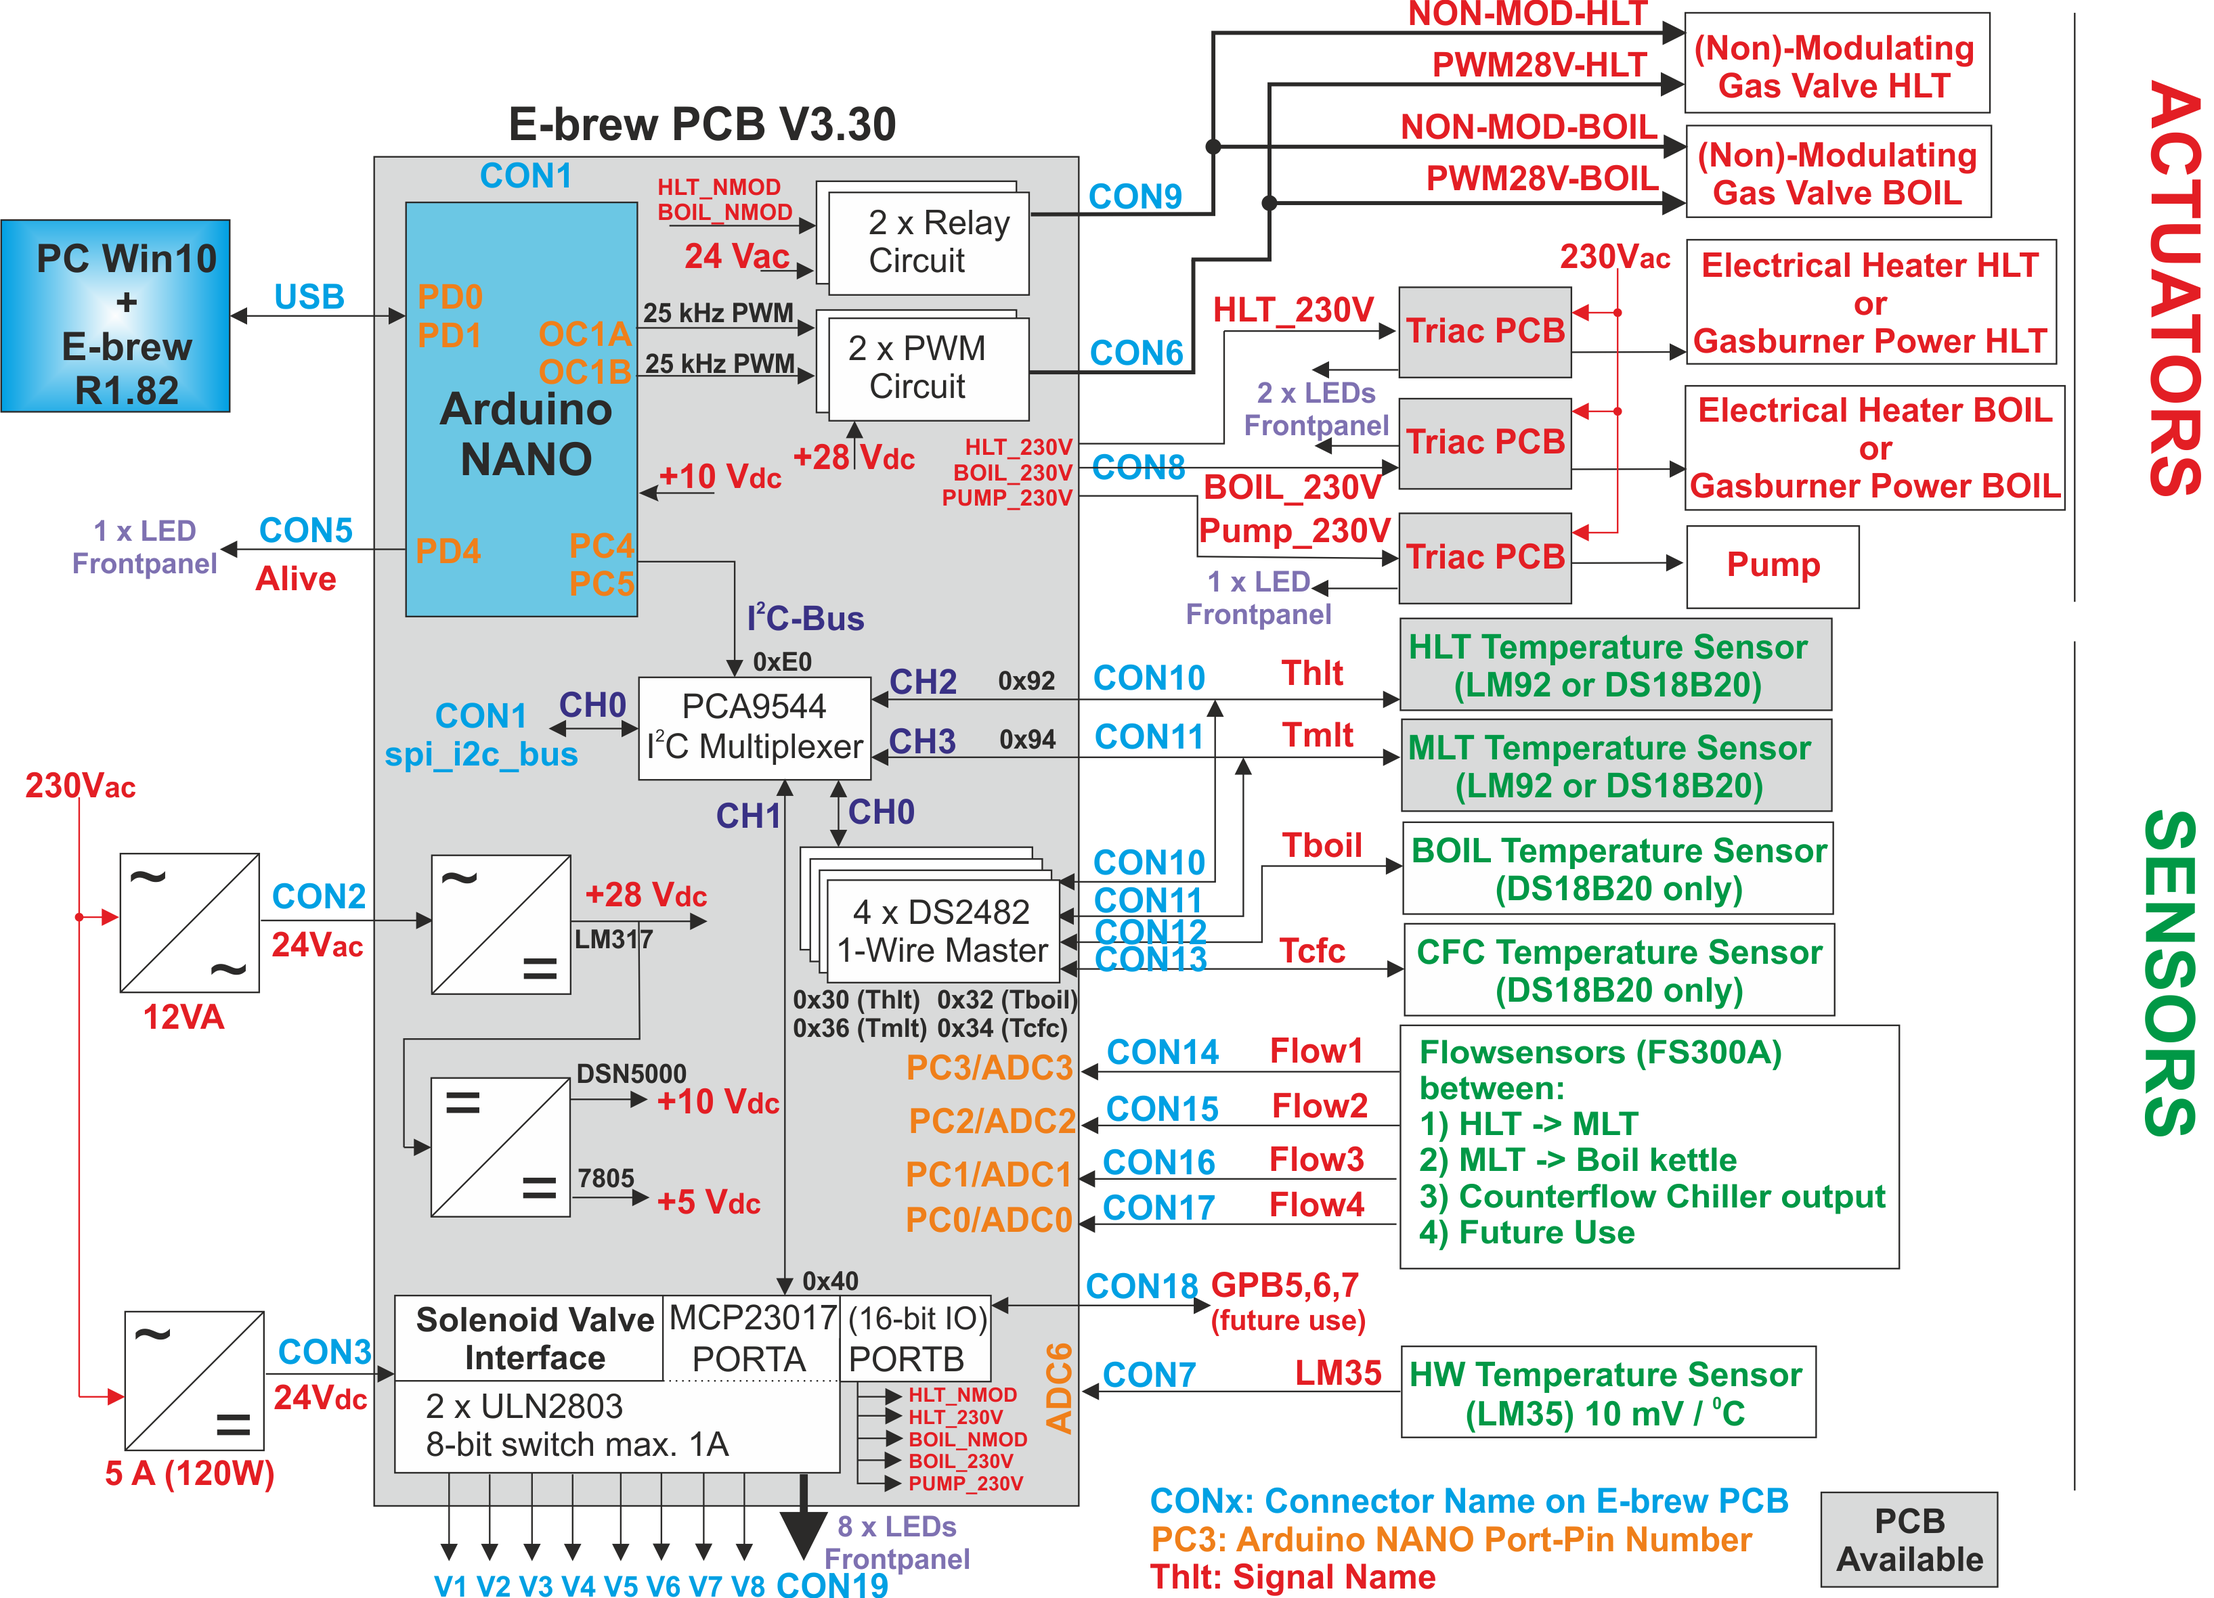
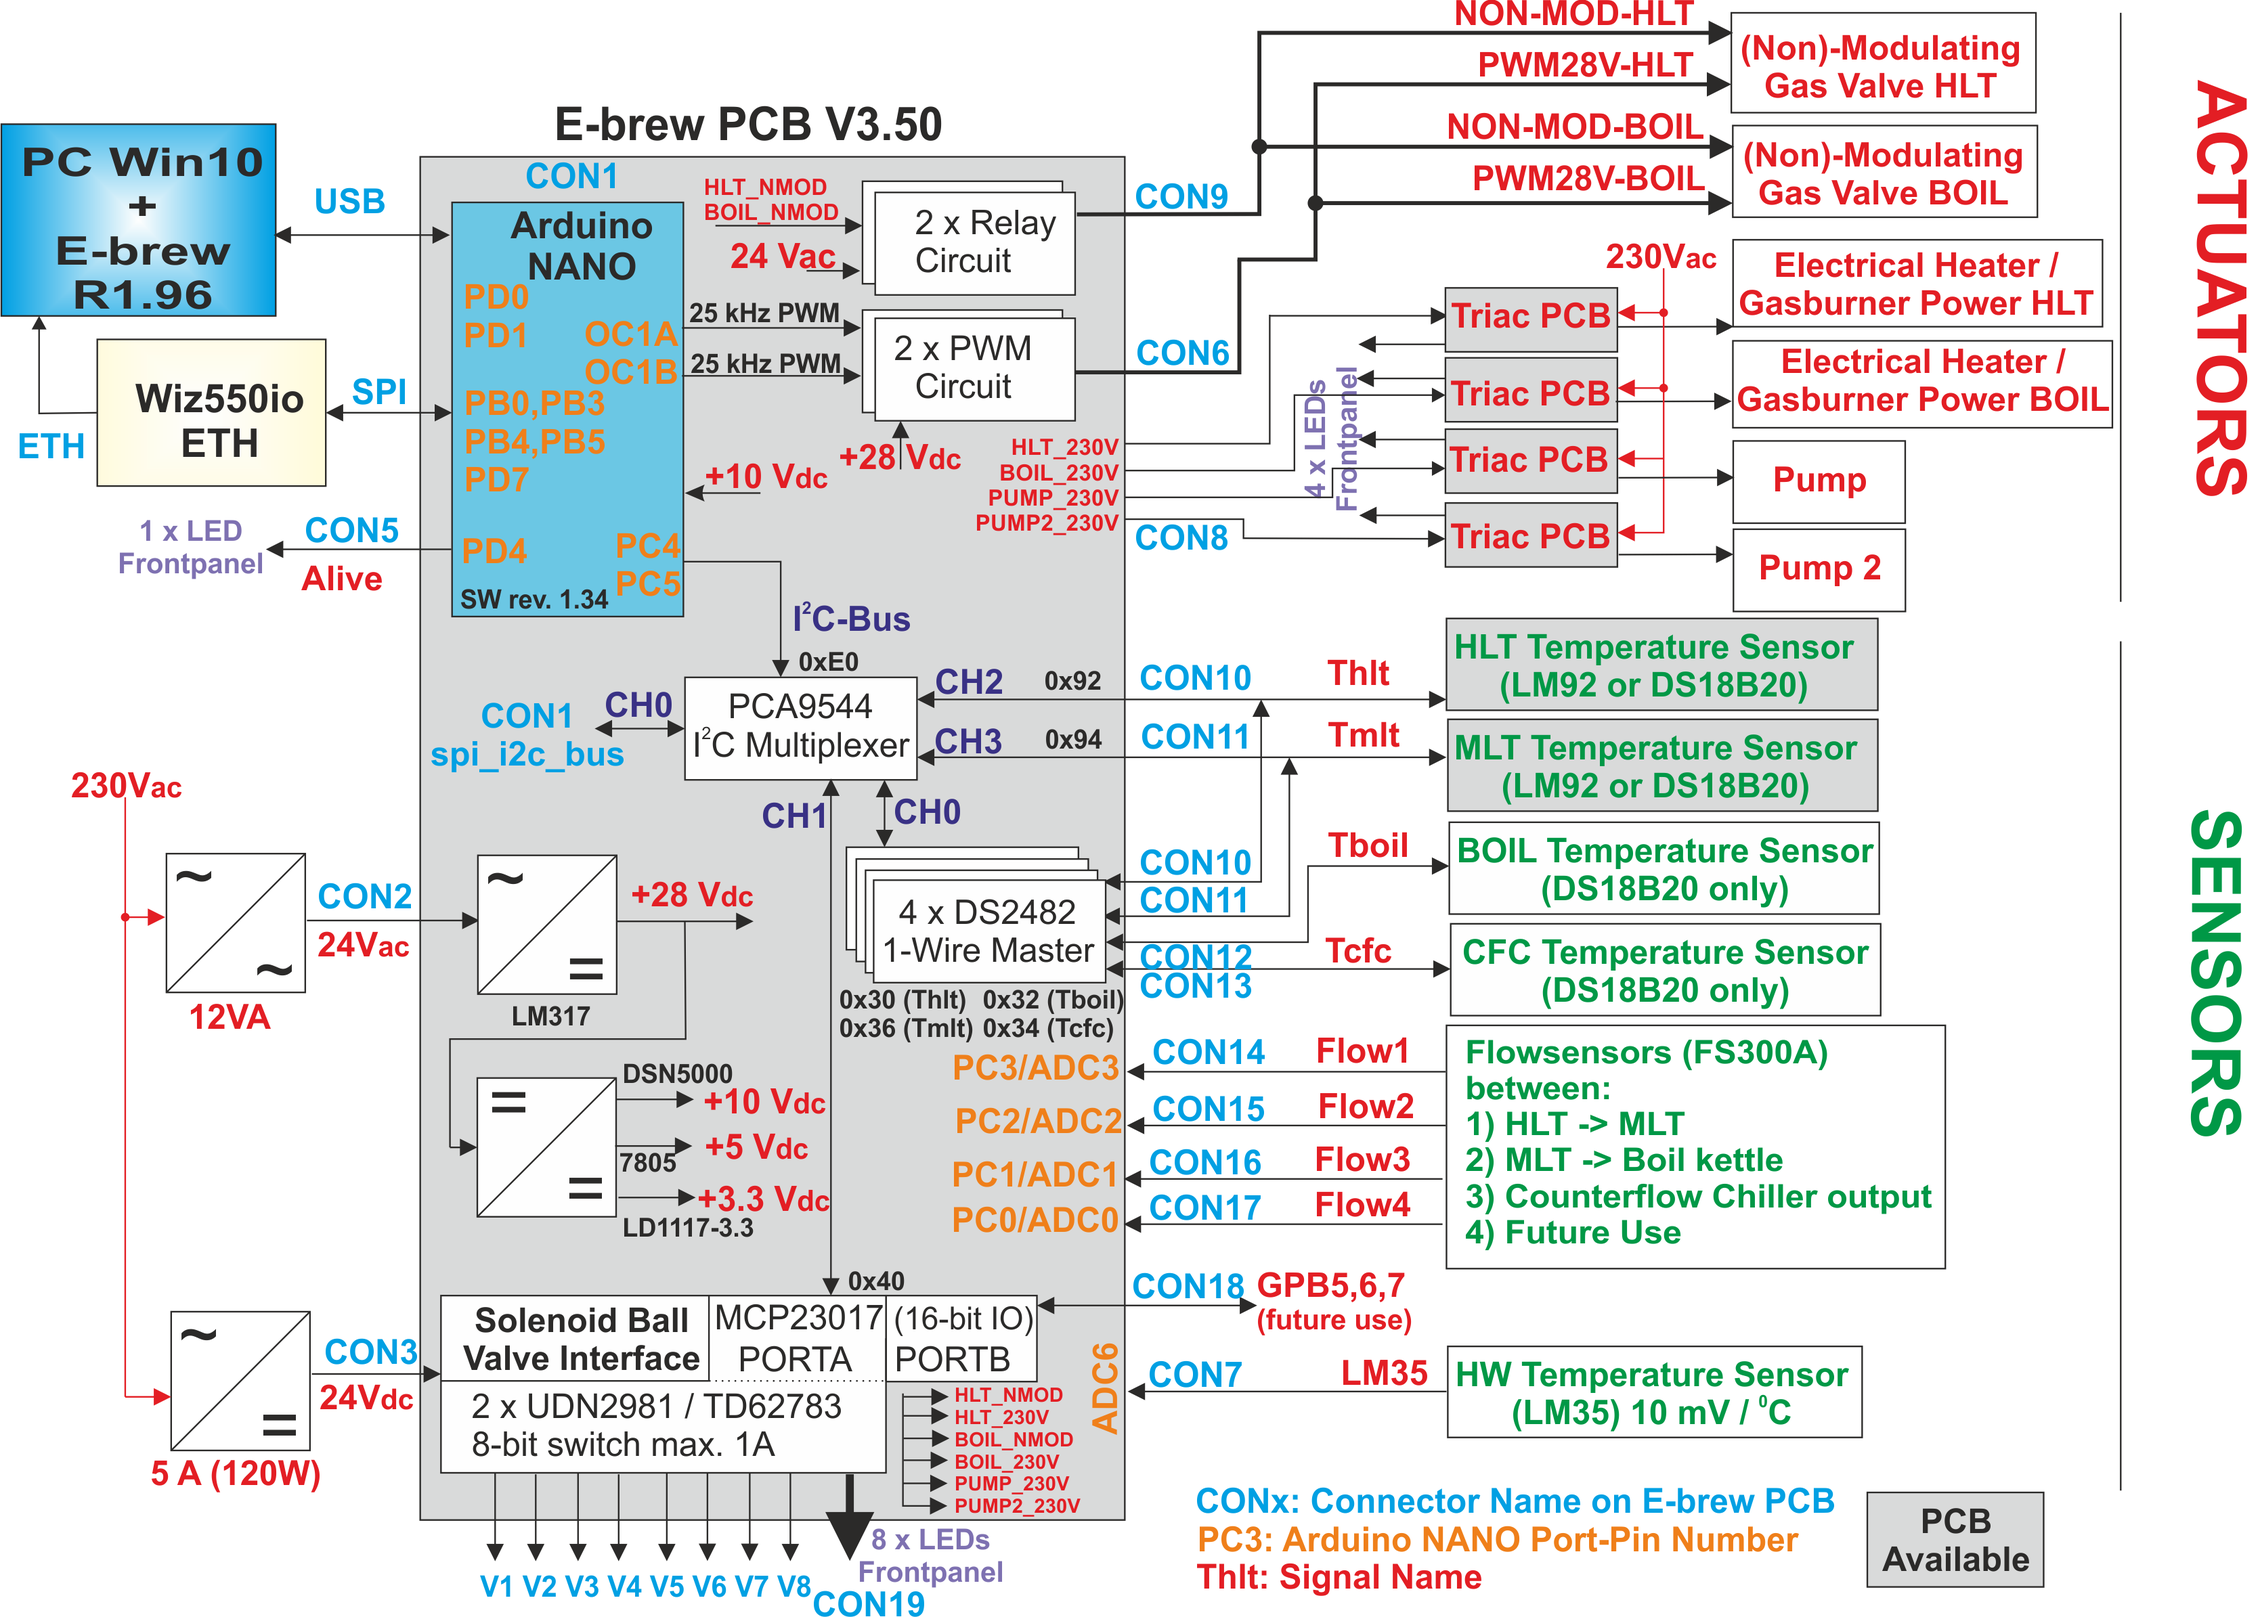
Readme pictures update

Changed region(s): [[0.0, 0.0, 0.9358, 1.0], [0.967, 0.0618, 0.9982, 0.3092], [0.967, 0.4947, 0.9982, 0.7111]]

diff --git a/README.md b/README.md
@@ -2,7 +2,7 @@
 Arduino Nano firmware for my home-brewery
 
 ![frontpanel](img/main_pcb_picture.jpg)<br>
-*Top view of v3.30 of the main-PCB*
+*Top view of v3.50 of the main-PCB*
 
 # Features
 The current PCB and firmware have the following features:
@@ -15,7 +15,7 @@ The current PCB and firmware have the following features:
 - Network and USB connection to PC
 
 ![frontpanel](img/hw_architecture.png)<br>
-*Hardware architecture of PCB v3.30*
+*Hardware architecture of PCB v3.50*
 
 More hardware and firmware design details: see my website: http://www.vandelogt.nl/uk_hardware.php
 
